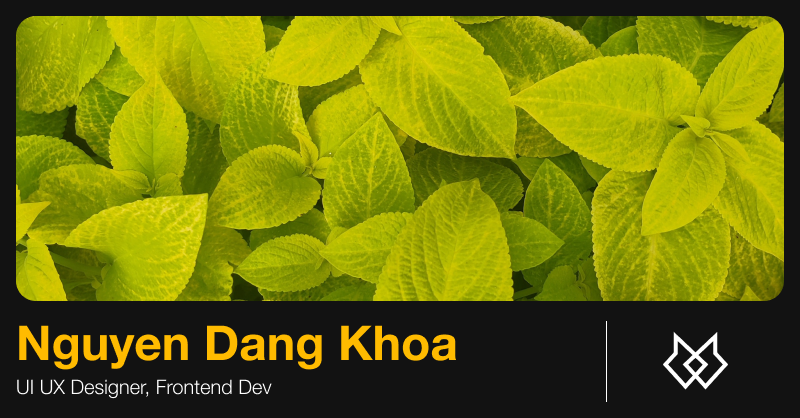
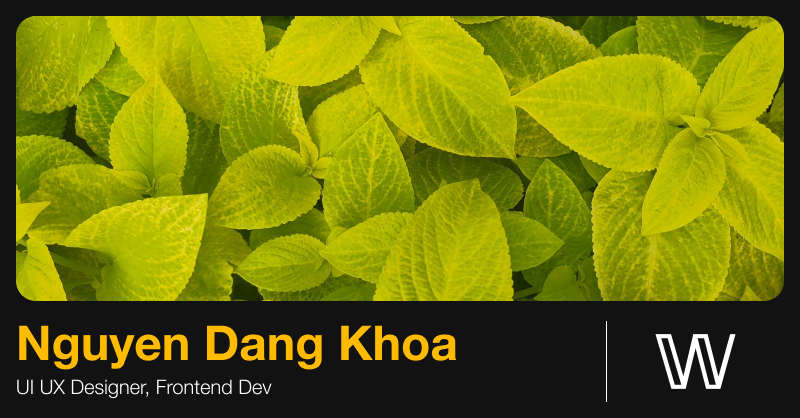
update new SEO images

Changed region(s): [[0.8125, 0.7775, 0.9375, 0.933]]

diff --git a/src/lib/components/Layout/Footer/Footer.svelte b/src/lib/components/Layout/Footer/Footer.svelte
@@ -13,6 +13,7 @@
 	import GitHubLogo from '~icons/ph/github-logo';
 	import Phone from '~icons/ph/phone';
 	import MapPin from '~icons/ph/map-pin';
+	import Logo from '$components/Layout/Header/Logo.svelte';
 
 	// import FooterBg from '$lib/assets/images/common/footer-bg.png';
 </script>
@@ -27,6 +28,10 @@
 				<div class="list">
 					<div class="list__title">About me</div>
 					<ul class="list__nav">
+						<li class="nav-list__item footer__logo">
+							<img alt="footer logo" width="24" height="24" src="/images/coolLogo.svg" />
+							<span style="color:var(--colorPrimary);font-weight:600">entallout</span>
+						</li>
 						<li class="nav-list__item">
 							Designer in Ho Chi Minh City, Vietnam that designs superb affordable websites and apps
 							for small businesses and non-profits alike.
@@ -134,6 +139,7 @@
 			no-repeat;
 		background-size: cover;
 		z-index: -1;
+		/* filter: brightness(0.4); */
 	}
 
 	:global([color-scheme='light'] .bg) {
@@ -230,5 +236,12 @@
 
 	.nav-list__item a:hover {
 		color: var(--colorPrimary);
+	}
+
+	.footer__logo {
+		display: flex;
+		justify-content: start;
+		align-items: center;
+		width: 100%;
 	}
 </style>

diff --git a/src/lib/components/Layout/Header/Logo.svelte b/src/lib/components/Layout/Header/Logo.svelte
@@ -1,21 +1,19 @@
-<a aria-label="home" href="/" class="cover__logo">
-	<!-- <official-logo class="official-logo" width="100%" height="100%" color="var(--colorText)" /> -->
+<script>
+	export let width = '200px';
+	export let height = width;
+</script>
 
-	<img
-		class="official-logo rotate"
-		width="200px"
-		height="200px"
-		src="/images/coolLogo.svg"
-		alt="2nd logo" />
+<a aria-label="home" href="/" class="cover__logo">
+	<img class="official-logo rotate" {width} {height} src="/images/coolLogo.svg" alt="2nd logo" />
 </a>
 
 <style lang="postcss">
 	.official-logo {
-		filter: drop-shadow(0px 0px 10px var(--colorText));
+		filter: drop-shadow(0px 0px 10px var(--colorPrimary));
 		transition: var(--transition);
 
 		&:hover {
-			color: var(--colorPrimary);
+			color: var(--colorPrimaryHover);
 			filter: drop-shadow(0px 0px 10px var(--colorPrimary));
 			animation: glitch 1.5s ease infinite;
 		}
